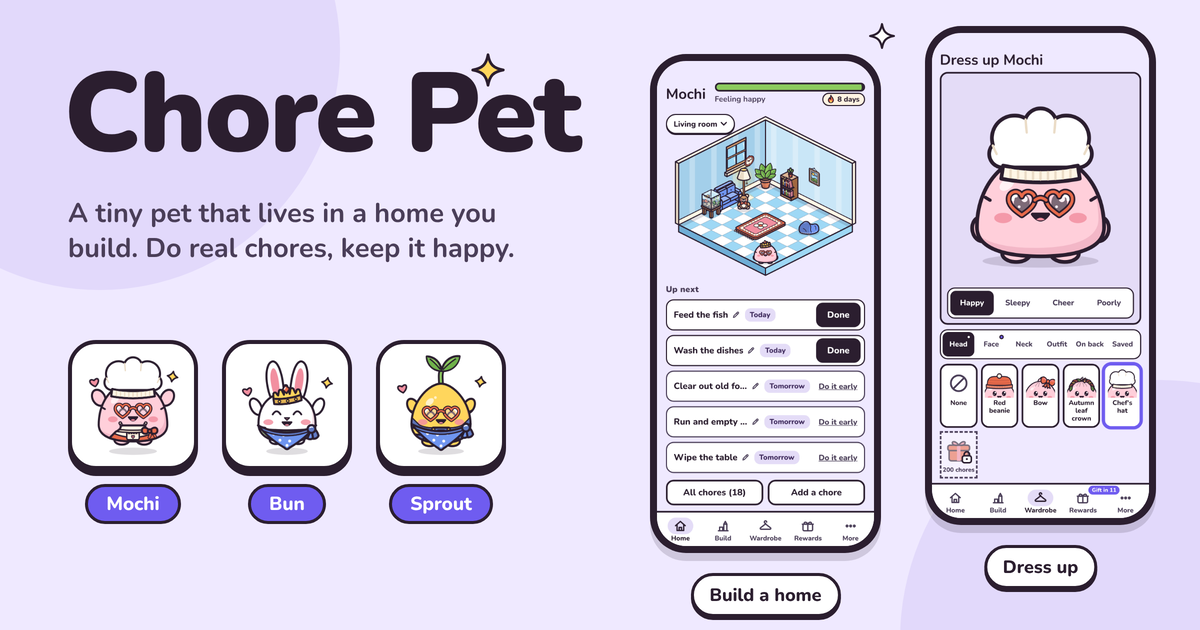
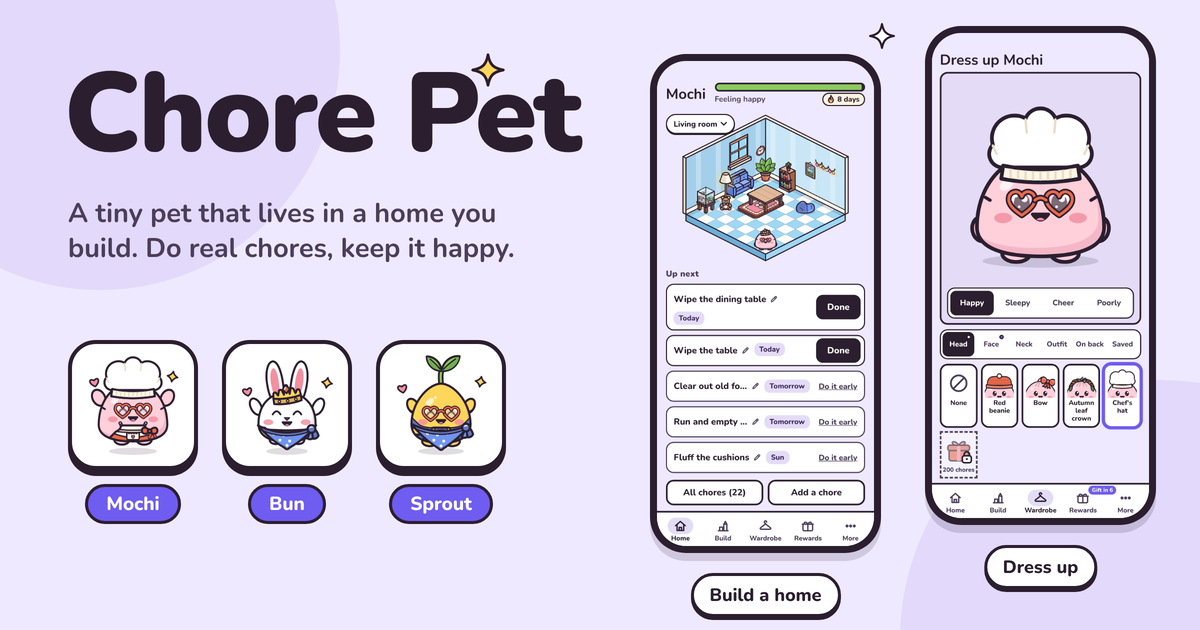
Home list wraps only late and due chores; showcase on the new rooms
Coming-up rows keep one line so the list stays short and the room stays big.
The showcase and share card now show the new living room and full names.

Claude-Session: https://claude.ai/code/session_016uMx24jJ69bwzCytcPoPAT

Changed region(s): [[0.555, 0.181, 0.74, 0.5429], [0.555, 0.6937, 0.6783, 0.754], [0.555, 0.5429, 0.6783, 0.573]]

diff --git a/src/screens/ChoreList.css b/src/screens/ChoreList.css
@@ -102,8 +102,14 @@
 .cl-short .cl-name { flex: 0 1 auto; min-width: 6em; display: inline-flex; align-items: center; white-space: nowrap; overflow-wrap: normal; }
 .cl-short .cl-name-text { overflow: hidden; text-overflow: ellipsis; }
 .cl-short .cl-info .tag { margin: 0; }
+/* On a phone, a chore that is late or due today keeps its whole name and its tag drops underneath (a name
+   that fits keeps one line); chores coming up stay on one line, so the list stays short and the room big. */
 @container cl (max-width: 30em) {
-  /* On a phone the tag drops under the name rather than cutting it off; a name that fits keeps one line. */
+  .cl-short .cl-row:not(.cl-row-upcoming) .cl-info { flex-wrap: wrap; }
+  .cl-short .cl-row:not(.cl-row-upcoming) .cl-info .tag { margin: 0 0 4px; }
+}
+@container cl (max-width: 22em) {
+  /* Narrower: the tag drops under the name rather than squeezing it. */
   .cl-short .cl-info { flex-wrap: wrap; }
   .cl-short .cl-name { flex: 0 1 auto; min-width: 6em; }
   .cl-short .cl-info .tag { margin: 0 0 4px; }
